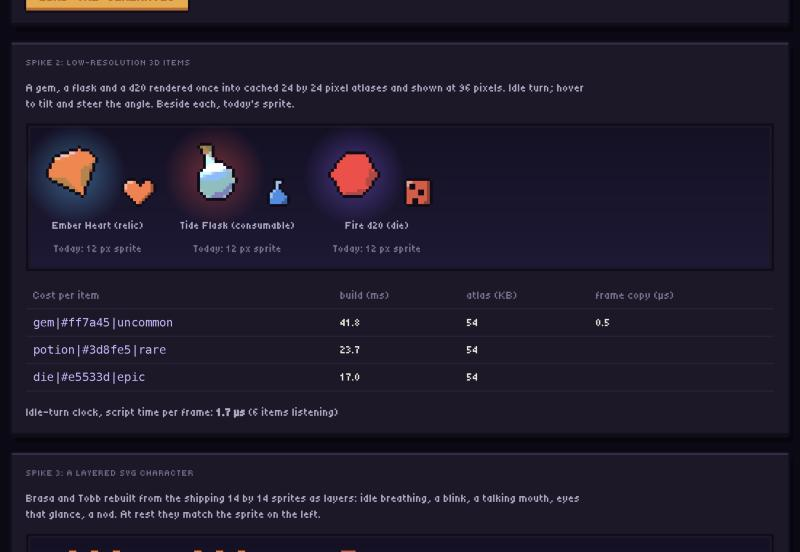
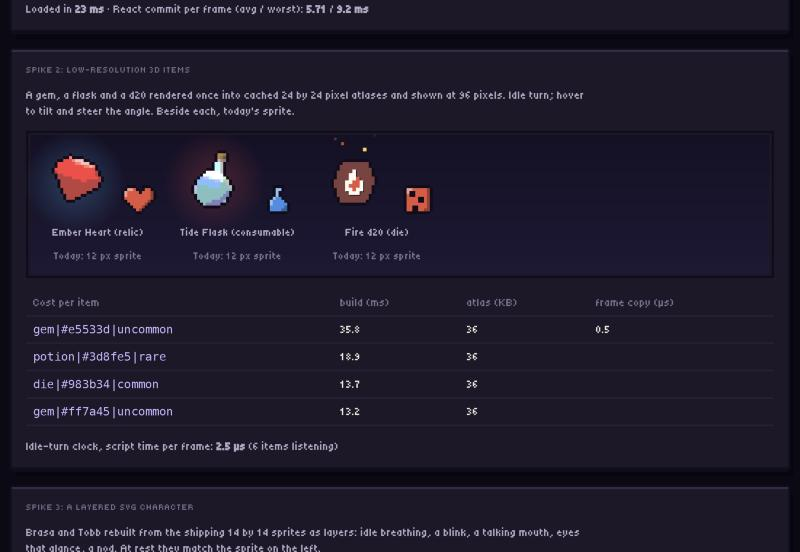
Elementa V1 fix: items keep element colors, dice keep ElementFx and the element mark, 16 frames per atlas

diff --git a/src/games/elementa/components/visuals/three/Item3D.jsx b/src/games/elementa/components/visuals/three/Item3D.jsx
@@ -1,11 +1,15 @@
 import { memo, useEffect, useRef, useState } from 'react'
 import { RARITY_GLOW } from '../../../data/relics.js'
+import { ELEMENTS } from '../../../data/elements.js'
+import { dieColors } from '../../DieToken.jsx'
+import ElementFx from '../../ElementFx.jsx'
+import PixelIcon from '../../PixelIcon.jsx'
 import PixelSprite from '../../PixelSprite.jsx'
 import { useVisualEnv } from '../VisualEnv.jsx'
 import { FRAMES, NATIVE, getAtlas } from './itemAtlas.js'
 import { subscribeTicker } from './ticker.js'
 
-const IDLE_FPS = 8 // frames per second of the idle turn: 3 seconds per revolution
+const IDLE_FPS = 6 // frames per second of the idle turn: 16 frames, about 2.7 seconds per revolution
 const REST_FRAME = 3 // the resting three-quarter view
 
 /**
@@ -14,8 +18,15 @@ const REST_FRAME = 3 // the resting three-quarter view
  * the pointer. Reduced motion keeps the resting frame still; the 'low'
  * quality tier (or a browser without WebGL) shows the shipping sprite.
  * `scale` is the whole-number pixel size of one art pixel.
+ *
+ * Design rules (VISUALS.md section 0b): an item with an `elementId` takes
+ * that element's own color (never a made-up one). A die (`shape="die"`)
+ * keeps what every die in the game has: its body color derived from the
+ * element exactly like DieSprite (`dieColors`), the element's own particle
+ * effect (`ElementFx`, behind and in front, off under Reduced motion), and
+ * the element's mark in the middle where there is no face to show.
  */
-function Item3D({ shape, color, rarity = 'common', scale = 4, fallbackSprite, float = false, className = '', onAtlas }) {
+function Item3D({ shape, elementId, color: colorProp, rarity = 'common', scale = 4, fallbackSprite, float = false, className = '', onAtlas }) {
   const { reduced, quality } = useVisualEnv()
   const [atlas, setAtlas] = useState(null)
   const [failed, setFailed] = useState(false)
@@ -23,6 +34,10 @@ function Item3D({ shape, color, rarity = 'common', scale = 4, fallbackSprite, fl
   const canvasRef = useRef(null)
   const hoverRef = useRef(null)
   const [tilt, setTilt] = useState({ x: 0, y: 0 })
+  const isDie = shape === 'die'
+  const def = elementId ? ELEMENTS[elementId] : null
+  // A die's body is the element color darkened toward the night palette, like its sprite.
+  const color = colorProp ?? (isDie && def ? dieColors(elementId).top : (def?.color ?? '#9ca3af'))
   const glow = RARITY_GLOW[rarity] || RARITY_GLOW.common
   const size = NATIVE * scale
   const useFallback = quality === 'low' || failed
@@ -96,7 +111,8 @@ function Item3D({ shape, color, rarity = 'common', scale = 4, fallbackSprite, fl
       onPointerMove={onMove}
       onPointerLeave={onLeave}
     >
-      {rarity !== 'common' && <span className="v-item3d__halo" data-still={reduced ? '' : undefined} />}
+      {isDie && def && !reduced && quality !== 'low' && <ElementFx elementId={elementId} size={size} behind lite={size < 56} />}
+      {rarity !== 'common' && !isDie && <span className="v-item3d__halo" data-still={reduced ? '' : undefined} />}
       <span className="v-item3d__tilt" style={{ transform: `perspective(${size * 2}px) rotateX(${tilt.x}deg) rotateY(${tilt.y}deg)` }}>
         {useFallback ? (
           fallbackSprite && <PixelSprite {...fallbackSprite} size={12 * Math.max(1, Math.round((size * 0.85) / 12))} />
@@ -104,6 +120,12 @@ function Item3D({ shape, color, rarity = 'common', scale = 4, fallbackSprite, fl
           <canvas ref={canvasRef} width={NATIVE} height={NATIVE} style={{ width: size, height: size, imageRendering: 'pixelated', opacity: atlas ? 1 : 0 }} />
         )}
       </span>
+      {isDie && def && !reduced && quality !== 'low' && <ElementFx elementId={elementId} size={size} lite={size < 56} />}
+      {isDie && def && (
+        <span className="v-item3d__mark" style={{ filter: 'drop-shadow(1px 1px 0 var(--ink))' }}>
+          <PixelIcon name={elementId} size={7 * Math.max(1, Math.round((size * 0.34) / 7))} color="#fffaf0" hi={def.color} />
+        </span>
+      )}
     </span>
   )
 }

diff --git a/src/games/elementa/data/visualRegistry.js b/src/games/elementa/data/visualRegistry.js
@@ -15,6 +15,8 @@
 // a whole number (see ASSETS.md). The files are looked up with a cheap
 // request on first use and remembered for the session.
 
+import { ELEMENTS } from './elements.js'
+
 const L = (en, es) => ({ en, es })
 
 export const IMAGE_BASE = '/elementa/visuals/'
@@ -31,22 +33,22 @@ export const VISUALS = {
     kind: 'three',
     label: L('Ember Heart (relic)', 'Corazón de Brasa (reliquia)'),
     load: () => import('../components/visuals/three/Item3D.jsx'),
-    props: { shape: 'gem', color: '#ff7a45', rarity: 'uncommon' },
-    fallbackSprite: { name: 'heart', color: '#ff7a45', accent: '#ffe27a' },
+    props: { shape: 'gem', elementId: 'fire', rarity: 'uncommon' },
+    fallbackSprite: { name: 'heart', color: ELEMENTS.fire.color, accent: '#ffe27a' },
   },
   'spike.consumable.tide_flask': {
     kind: 'three',
     label: L('Tide Flask (consumable)', 'Frasco de Marea (consumible)'),
     load: () => import('../components/visuals/three/Item3D.jsx'),
-    props: { shape: 'potion', color: '#3d8fe5', rarity: 'rare' },
-    fallbackSprite: { name: 'flask', color: '#3d8fe5', accent: '#9fd4ff' },
+    props: { shape: 'potion', elementId: 'water', rarity: 'rare' },
+    fallbackSprite: { name: 'flask', color: ELEMENTS.water.color, accent: '#9fd4ff' },
   },
   'spike.die.fire_d20': {
     kind: 'three',
     label: L('Fire d20 (die)', 'd20 de Fuego (dado)'),
     load: () => import('../components/visuals/three/Item3D.jsx'),
-    props: { shape: 'die', color: '#e5533d', rarity: 'epic' },
-    fallbackSprite: { name: 'die', color: '#e5533d', accent: '#ffd166' },
+    props: { shape: 'die', elementId: 'fire' },
+    fallbackSprite: { name: 'die', color: ELEMENTS.fire.color, accent: '#ffd166' },
   },
   // Two shelf fillers that stay code-made sprites, so the room mixes both.
   'spike.relic.lucky_coin': {

diff --git a/src/games/elementa/components/visuals/VisualsLabPage.jsx b/src/games/elementa/components/visuals/VisualsLabPage.jsx
@@ -3,6 +3,7 @@ import { Link, useSearchParams } from 'react-router-dom'
 import { useLanguage } from '../../../../i18n/LanguageContext.jsx'
 import { GameSettingsProvider, useGameSettings } from '../../utils/gameSettingsContext.jsx'
 import { getVisualQuality, lowEndHint } from '../../utils/perfProbe.js'
+import { ELEMENTS } from '../../data/elements.js'
 import { VISUAL_IDS, IMAGE_BASE, clearImageOverrides, visualEntry } from '../../data/visualRegistry.js'
 import KeeperSprite from '../KeeperSprite.jsx'
 import PixelSprite from '../PixelSprite.jsx'
@@ -137,7 +138,7 @@ function ItemsSpike({ lang, tx }) {
       }
       poll()
       setTimeout(
-        () => mod.benchmarkDraw({ shape: 'gem', color: '#ff7a45', rarity: 'uncommon' }).then((us) => live && setDraw(us)),
+        () => mod.benchmarkDraw({ shape: 'gem', color: ELEMENTS.fire.color, rarity: 'uncommon' }).then((us) => live && setDraw(us)),
         900,
       )
     })

diff --git a/src/games/elementa/components/visuals/three/itemAtlas.js b/src/games/elementa/components/visuals/three/itemAtlas.js
@@ -9,7 +9,7 @@ import * as THREE from 'three'
 // every copy of an item. Light comes from the top left, like the sprites.
 
 export const NATIVE = 24 // final pixel size of one frame (matches the 24x24 relic spec in ASSETS.md)
-export const FRAMES = 24 // angles per full turn
+export const FRAMES = 16 // angles per full turn (Carlos, 2026-10-09: 16 per item)
 const SUPER = 96 // supersampled render size, shrunk to NATIVE for clean edges
 const INK = [0x12, 0x0c, 0x1a]
 const LEVELS = 5 // palette steps per channel

diff --git a/src/games/elementa/components/visuals/visuals.css b/src/games/elementa/components/visuals/visuals.css
@@ -29,6 +29,17 @@
   display: block;
   transition: opacity 200ms var(--v-out);
 }
+.v-item3d {
+  isolation: isolate;
+}
+.v-item3d__mark {
+  position: absolute;
+  left: 50%;
+  top: 50%;
+  transform: translate(-50%, -50%);
+  pointer-events: none;
+  line-height: 0;
+}
 .v-item3d__halo {
   position: absolute;
   inset: -34%;
